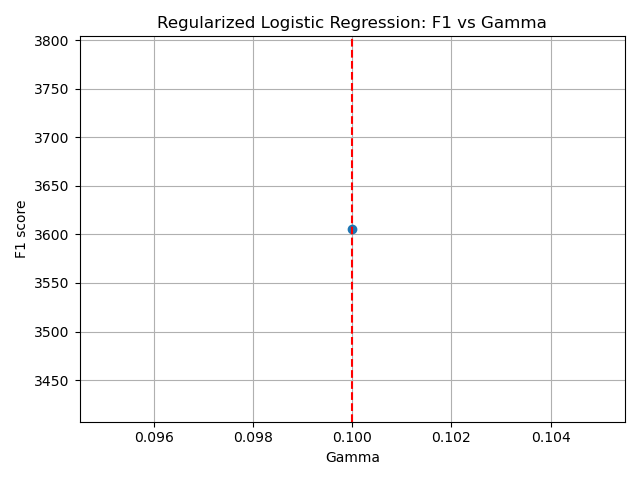
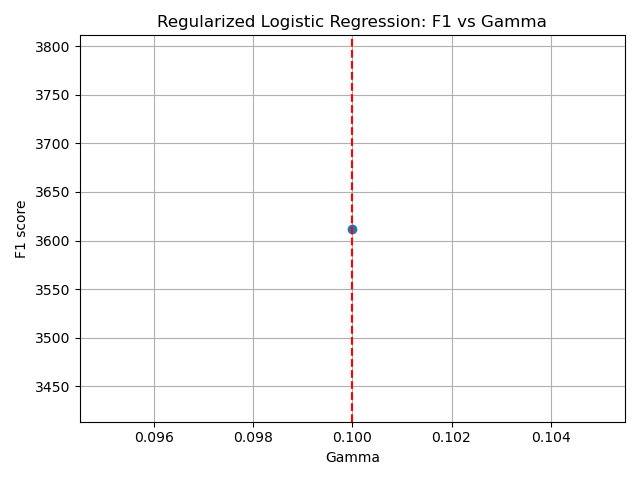
add option to fill data with mode instead of media in fill_data_robust3 (best result yet)
*

diff --git a/project1/run.py b/project1/run.py
@@ -119,7 +119,7 @@ def prepare_data(threshold_features = 0.8,threshold_points = 0.6, normalize = Tr
 
     return x_train,y_train,x_test,train_ids, test_ids
 
-def prepare_data2(threshold_features=0.8, threshold_points=0.6, normalize=True, outlier_strategy='smart'):
+def prepare_data2(threshold_features=0.8, threshold_points=0.6, normalize=True, outlier_strategy='smart', fill_method='median'):
     """
     Load raw training and test data, preprocess it, and return cleaned datasets
     ready for ML models. Handles missing values, feature removal, outlier removal,
@@ -161,7 +161,8 @@ def prepare_data2(threshold_features=0.8, threshold_points=0.6, normalize=True, 
         threshold_features=threshold_features,
         threshold_points=threshold_points,
         normalize=normalize,
-        outlier_strategy=outlier_strategy
+        outlier_strategy=outlier_strategy,
+        fill_method=fill_method
     )
     
     print(f"\nFinal training data shape: {x_train.shape}, test data shape: {x_test.shape}")
@@ -755,7 +756,7 @@ def train_reg_logistic_regression(
 
 
     path = os.path.dirname(os.path.realpath(__file__))
-    output_path = path + "/submission_v7.csv"
+    output_path = path + "/submission_v8.csv"
     hl.create_csv_submission(test_ids, y_test, output_path)
     print("Submission file saved.")
     # ---- Plot F1 scores only ----
@@ -1114,9 +1115,12 @@ def train_knn(
 
 #x_train,y_train,x_test,train_ids, test_ids = prepare_data(threshold_features = 0.5,threshold_points = 0.5, normalize = True, remove_outliers = False, aberrant_threshold=5)
 
-x_train,y_train,x_test,train_ids, test_ids = prepare_data2(threshold_features = 0.5,threshold_points = 0.5, normalize = True,outlier_strategy='smart')
+x_train,y_train,x_test,train_ids, test_ids = prepare_data2(threshold_features = 0.8,threshold_points = 0.5, normalize = True, outlier_strategy='smart', fill_method='mode')
 
-train_reg_logistic_regression(y_train,x_train,x_test,test_ids,max_iters=5000,lambdas=[1e-6],gammas=[0.1], duplicate=False, threshold=0.2, k_fold=4, save_plots=True)            # F1: 0.424
+train_reg_logistic_regression(y_train,x_train,x_test,test_ids,max_iters=5000,lambdas=[1e-6],gammas=[0.1], duplicate=False, threshold=0.2, k_fold=4, save_plots=True)            
+#threshold: 0.5 #smart, median: F1: 0.4296                       #aggressive, median: F1 : 0.4293           #smart, mode: F1: 0.4298      
+#threshold: 0.8 #smart, median: F1: 0.4314                       #smart, median: F1 : 0.4309           -- best so far: smart, mode, threshold 0.8
+
 
 #x_train,y_train,x_test,train_ids, test_ids = prepare_data(threshold_features = 0.5,threshold_points = 0.5, normalize = True, remove_outliers = False, aberrant_threshold=1000)
 #train_reg_logistic_regression(y_train,x_train,x_test,test_ids,max_iters=2000,lambdas=[1e-6],gammas=[0.1], duplicate=False, threshold=0.2, k_fold=4)                            #F1 : 0.413

diff --git a/project1/data_exploration.py b/project1/data_exploration.py
@@ -838,7 +838,7 @@ def fill_data_robust2(x_train_raw, x_test_raw, y_train_raw,
 
 def fill_data_robust3(x_train_raw, x_test_raw, y_train_raw,
                        threshold_features=0.8, threshold_points=0.6,
-                       normalize=True, outlier_strategy='none'):
+                       normalize=True, outlier_strategy='none', fill_method='median'):
     """
     Robust preprocessing pipeline for training and test data.
 
@@ -885,12 +885,18 @@ def fill_data_robust3(x_train_raw, x_test_raw, y_train_raw,
     y_train = y_train[row_mask]
 
     # -------------------------
-    # Step 3: Fill remaining NaNs with median
+    # Step 3: Fill remaining NaNs with median or mode
     # -------------------------
-    for i in range(x_train.shape[1]):
-        median_val = np.nanmedian(x_train[:, i])
-        x_train[:, i] = np.nan_to_num(x_train[:, i], nan=median_val)
-        x_test[:, i] = np.nan_to_num(x_test[:, i], nan=median_val)
+    if fill_method == 'median':
+        for i in range(x_train.shape[1]):
+            median_val = np.nanmedian(x_train[:, i])
+            x_train[:, i] = np.nan_to_num(x_train[:, i], nan=median_val)
+            x_test[:, i] = np.nan_to_num(x_test[:, i], nan=median_val)
+
+    elif fill_method == 'mode':
+        for i in range(x_train.shape[1]):
+            x_train[:, i] = fill_column_mode(x_train[:, i])
+            x_test[:, i] = fill_column_mode(x_test[:, i])
 
     # -------------------------
     # Step 4: Identify categorical vs continuous
